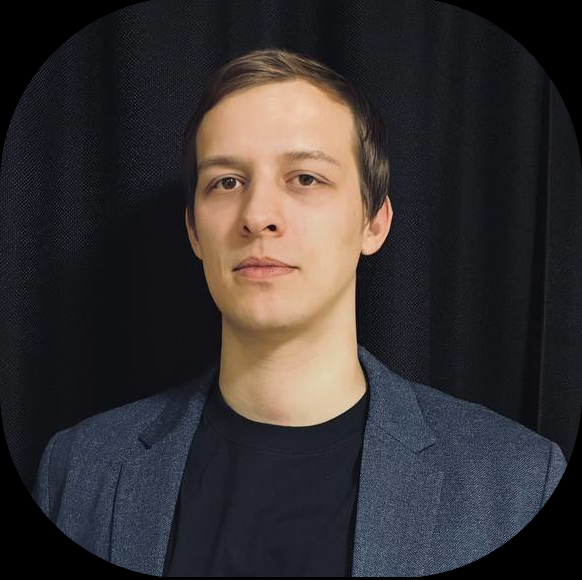
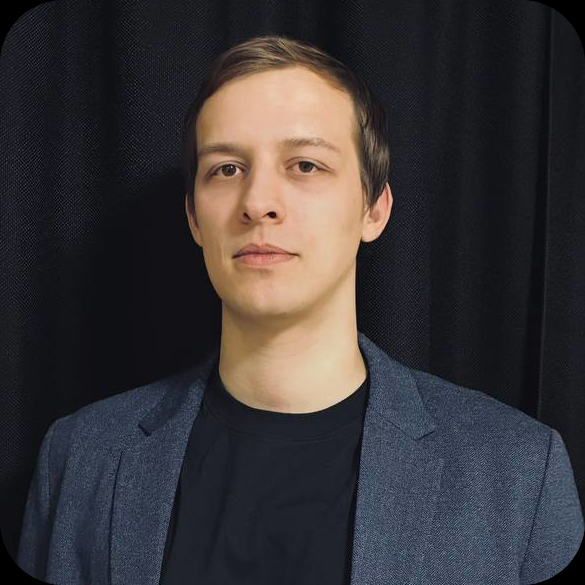
Update the business card website

diff --git a/assets/css/style.css b/assets/css/style.css
@@ -334,11 +334,9 @@ main {
 .avatar-box {
   background: var(--bg-gradient-onyx);
   border-radius: 20px;
-  width: 100px; /* Явно задайте размеры */
-  height: 100px;
-  border-radius: 50%; /* Делаем сам контейнер круглым */
-  overflow: hidden; /* ОБЯЗАТЕЛЬНО! Обрезает всё, что выходит за круг */
-  display: flex; /* Или inline-flex/block */
+  border-radius: 50%;
+  overflow: hidden;
+  display: flex;
 }
 
 .info-content .name {
@@ -451,6 +449,24 @@ main {
 
 .social-item .social-link:hover { color: var(--light-gray); }
 
+/* Простой фикс для фотографии */
+@media screen and (max-width: 768px) {
+  .avatar-box {
+    flex-shrink: 0;
+    width: 80px !important;
+    height: 80px !important;
+  }
+
+  .sidebar.active {
+    max-height: 400px !important;
+    overflow-y: auto;
+  }
+
+  /* Убираем горизонтальный скролл */
+  .sidebar {
+    overflow-x: hidden;
+  }
+}
 
 
 
